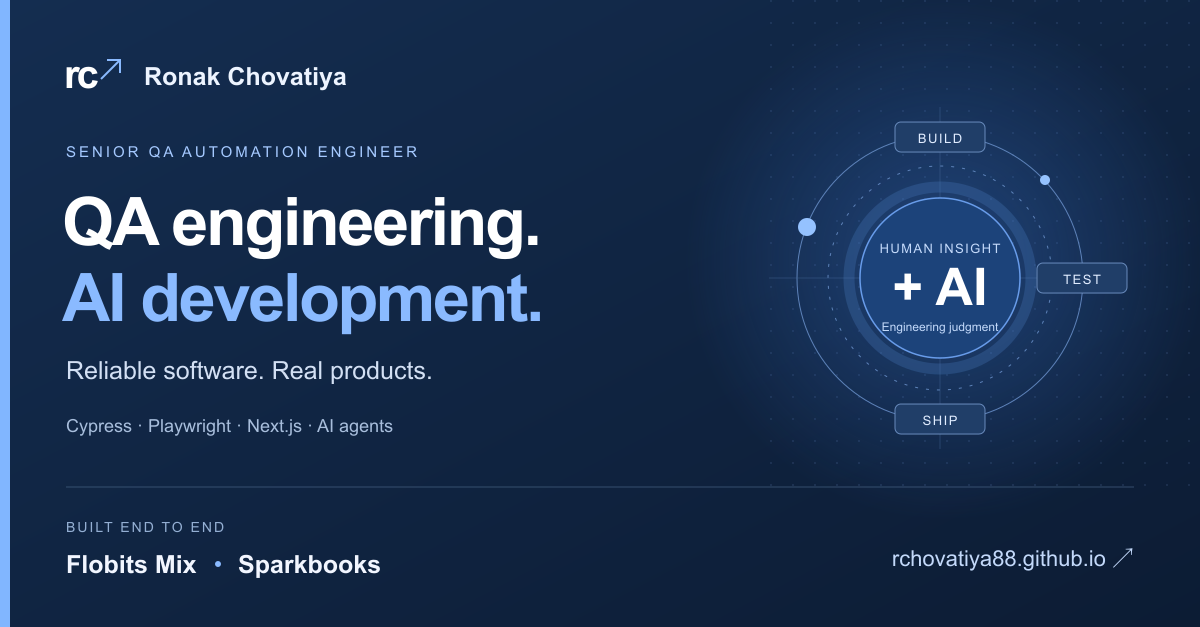
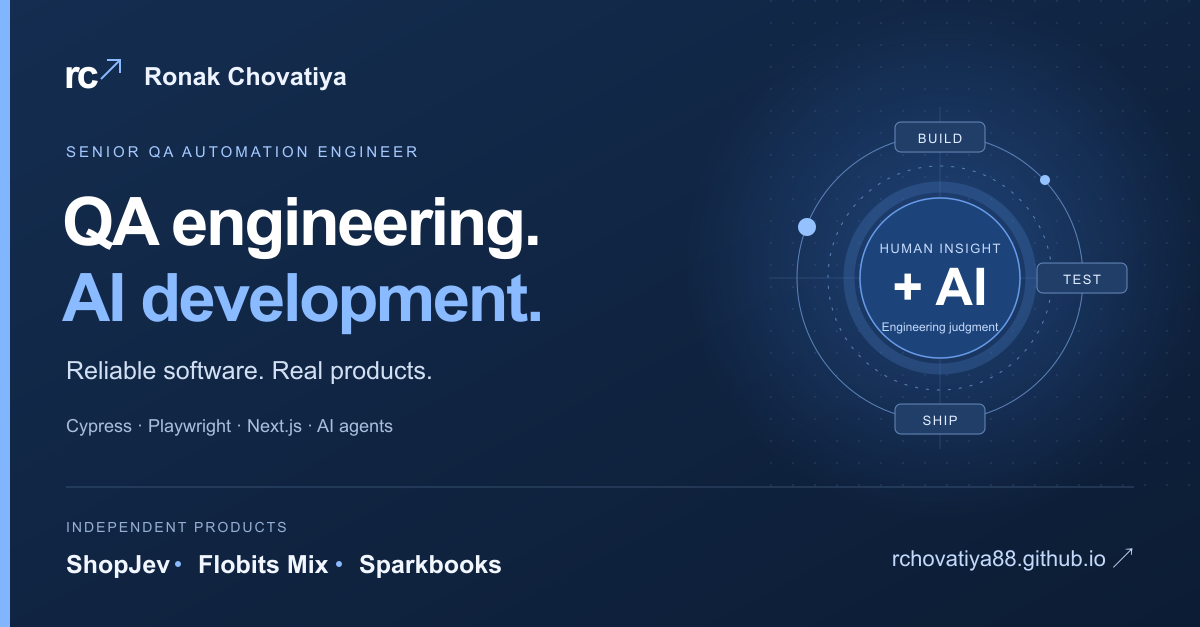
feat: add ShopJev to portfolio

Changed region(s): [[0.0617, 0.8788, 0.4317, 0.9394], [0.0617, 0.8182, 0.2467, 0.8485]]

diff --git a/index.html b/index.html
@@ -2,25 +2,25 @@
 <html lang="en">
 <head>
 <meta charset="utf-8"><meta name="viewport" content="width=device-width, initial-scale=1">
-<meta name="description" content="Ronak Chovatiya — Senior QA Automation Engineer and AI product developer. Cypress, Playwright, full-stack testing, Flobits Mix, and Sparkbooks.">
+<meta name="description" content="Ronak Chovatiya — Senior QA Automation Engineer and AI product developer. Cypress, Playwright, ShopJev, Flobits Mix, and Sparkbooks.">
 <meta name="theme-color" content="#f4f7fc">
 <meta property="og:type" content="website">
 <meta property="og:site_name" content="Ronak Chovatiya Portfolio">
 <meta property="og:locale" content="en_US">
 <meta property="og:title" content="Ronak Chovatiya | QA Automation &amp; AI Development">
-<meta property="og:description" content="Senior QA Automation Engineer building reliable software and AI products. Explore Cypress and Playwright frameworks, Flobits Mix, and Sparkbooks.">
+<meta property="og:description" content="Senior QA Automation Engineer building reliable software and AI products. Explore test automation, ShopJev, Flobits Mix, and Sparkbooks.">
 <meta property="og:url" content="https://rchovatiya88.github.io/">
 <meta property="og:image" content="https://rchovatiya88.github.io/assets/social/ronak-share-v1.png">
 <meta property="og:image:secure_url" content="https://rchovatiya88.github.io/assets/social/ronak-share-v1.png">
 <meta property="og:image:type" content="image/png">
 <meta property="og:image:width" content="1200">
 <meta property="og:image:height" content="627">
-<meta property="og:image:alt" content="Ronak Chovatiya — QA engineering and AI development. Creator of Flobits Mix and Sparkbooks.">
+<meta property="og:image:alt" content="Ronak Chovatiya — QA engineering and AI development. Creator of ShopJev, Flobits Mix, and Sparkbooks.">
 <meta name="twitter:card" content="summary_large_image">
 <meta name="twitter:title" content="Ronak Chovatiya | QA Automation &amp; AI Development">
-<meta name="twitter:description" content="Senior QA Automation Engineer building reliable software and AI products. Explore Flobits Mix, Sparkbooks, and test automation frameworks.">
+<meta name="twitter:description" content="Senior QA Automation Engineer building reliable software and AI products. Explore ShopJev, Flobits Mix, Sparkbooks, and test automation frameworks.">
 <meta name="twitter:image" content="https://rchovatiya88.github.io/assets/social/ronak-share-v1.png">
-<meta name="twitter:image:alt" content="Ronak Chovatiya — QA engineering and AI development. Creator of Flobits Mix and Sparkbooks.">
+<meta name="twitter:image:alt" content="Ronak Chovatiya — QA engineering and AI development. Creator of ShopJev, Flobits Mix, and Sparkbooks.">
 <title>Ronak Chovatiya · QA Engineer & AI Builder</title>
 <link rel="canonical" href="https://rchovatiya88.github.io/">
 <link rel="icon" href="assets/favicon.svg?v=20260926-blue" type="image/svg+xml">
@@ -49,12 +49,16 @@
   <div class="visual-bottom"><span>From first idea<br>to release confidence.</span><span class="mono">AUTOMATE.<br>VALIDATE.<br>ITERATE.</span></div>
  </div>
 </section>
-<div class="proof-strip wrap" aria-label="Career highlights"><div><strong>10+ years</strong><span>in software quality</span></div><div><strong>Frameworks, from zero</strong><span>Cypress · Playwright · Selenium</span></div><div><strong>Products, end to end</strong><span>Flobits Mix · Sparkbooks</span></div><a href="https://github.com/rchovatiya88" target="_blank" rel="noopener noreferrer">Explore my GitHub <span aria-hidden="true">↗</span></a></div>
+<div class="proof-strip wrap" aria-label="Career highlights"><div><strong>10+ years</strong><span>in software quality</span></div><div><strong>Frameworks, from zero</strong><span>Cypress · Playwright · Selenium</span></div><div><strong>Independent products</strong><span>ShopJev · Flobits Mix · Sparkbooks</span></div><a href="https://github.com/rchovatiya88" target="_blank" rel="noopener noreferrer">Explore my GitHub <span aria-hidden="true">↗</span></a></div>
 <section class="section wrap" id="work" aria-labelledby="work-title">
  <div class="section-heading"><div><p class="eyebrow">01 / SELECTED WORK</p><h2 id="work-title">Ideas made real.</h2></div><p>Independent products and public engineering work.<br>Built with a tester’s attention to detail.</p></div>
- <div class="filters" role="group" aria-label="Filter projects"><button class="filter active" data-filter="all" aria-pressed="true">All work <span>3</span></button><button class="filter" data-filter="product" aria-pressed="false">Products <span>2</span></button><button class="filter" data-filter="automation" aria-pressed="false">Test automation <span>1</span></button></div>
+ <div class="filters" role="group" aria-label="Filter projects"><button class="filter active" data-filter="all" aria-pressed="true">All work <span>4</span></button><button class="filter" data-filter="product" aria-pressed="false">Products <span>3</span></button><button class="filter" data-filter="automation" aria-pressed="false">Test automation <span>1</span></button></div>
  <p class="sr-only" id="filter-status" aria-live="polite"></p>
  <div class="project-grid">
+ <article class="project" data-category="product">
+  <a class="project-art shopjev-art" href="https://shopjev.netlify.app/" target="_blank" rel="noopener noreferrer" aria-label="Open ShopJev live site"><div class="art-top"><span class="mono">SHOPJEV / INTENT SEARCH</span><span class="live-label">LIVE PRODUCT ↗</span></div><div class="shopjev-search"><span class="shopjev-search-label">WHAT ARE YOU LOOKING FOR?</span><div class="shopjev-query">A calm, mid-century bedroom<span aria-hidden="true">⌕</span></div><div class="shopjev-chips"><span>Lighting</span><span>Warm wood</span><span>Soft textures</span></div></div><div class="shopjev-products" aria-hidden="true"><div><i></i><span>Thoughtful finds</span><b>↗</b></div><div><i></i><span>Picked for your space</span><b>↗</b></div><div><i></i><span>Explore the collection</span><b>↗</b></div></div><span class="art-caption">Search by what you mean, not just a product name</span></a>
+  <div class="project-copy"><p class="project-kicker">AI / COMMERCE SEARCH / INDEPENDENT PRODUCT</p><h3>ShopJev</h3><p>An AI-assisted shopping search prototype I built around Jev and Shopify’s live product catalog. Search by product, occasion, style, or goal, then explore complementary product searches shaped around the shopper’s intent.</p><div class="tags"><span>Jev intent</span><span>Shopify catalog</span><span>AI product development</span></div><details class="case-study"><summary>Inside the build <span aria-hidden="true">+</span></summary><div><h4>The product</h4><p>Help shoppers move from broad goals like refreshing a room to relevant products across Shopify’s live catalog.</p><h4>My contribution</h4><p>Built the search experience and server-side integration that uses Jev to interpret queries and guide complementary catalog searches. Product listings are fetched live; images load directly from the associated Shopify results.</p><h4>What this demonstrates</h4><p>Applied AI for understanding shopper intent, connected to live commerce data and a usable product discovery experience.</p><a class="text-link" href="https://shopjev.netlify.app/" target="_blank" rel="noopener noreferrer">Explore ShopJev <span aria-hidden="true">↗</span></a></div></details></div>
+ </article>
  <article class="project" data-category="product">
   <a class="project-art flobits-art" href="https://flobits.app/" target="_blank" rel="noopener noreferrer" aria-label="Open Flobits Mix live site"><div class="art-top"><span class="mono">FLOBITS / MIX</span><span class="live-label">LIVE PRODUCT ↗</span></div><div class="flobits-title">Make room<br>for your rhythm<span>.</span></div><div class="sequencer" aria-hidden="true"><div class="seq-controls"><span>FLOBITS SESSION</span><span>● ● ●</span></div><div class="seq-row"><span>KICK</span><i></i><i></i><i></i><i></i><i></i><i></i><i></i><i></i></div><div class="seq-row"><span>SNARE</span><i></i><i></i><i></i><i></i><i></i><i></i><i></i><i></i></div><div class="seq-row"><span>HAT</span><i></i><i></i><i></i><i></i><i></i><i></i><i></i><i></i></div><div class="wave"><i></i><i></i><i></i><i></i><i></i><i></i><i></i><i></i><i></i><i></i><i></i><i></i><i></i><i></i><i></i><i></i><i></i><i></i><i></i><i></i><i></i><i></i><i></i><i></i></div></div><span class="art-caption">A visual sketch of the music workflow</span></a>
   <div class="project-copy"><p class="project-kicker">CREATIVE TOOLS / INDEPENDENT PRODUCT</p><h3>Flobits Mix</h3><p>A browser-based music-production application I built end to end. Sequence beats, mix tracks, record vocals, and convert audio in one creative workspace.</p><div class="tags"><span>Music production</span><span>Browser audio</span><span>Product development</span></div><details class="case-study"><summary>Inside the build <span aria-hidden="true">+</span></summary><div><h4>The product</h4><p>Bring music creation, mixing, and recording into a single browser experience with a 16-step sequencer, per-track controls, and effects.</p><h4>My contribution</h4><p>Built the application end to end, connecting the creative interface with its audio workflows and bringing the product to a live website.</p><h4>What this demonstrates</h4><p>Hands-on product engineering beyond test automation: interactive UI, complex application state, and an experience that responds to a user’s creative choices.</p><a class="text-link" href="https://flobits.app/" target="_blank" rel="noopener noreferrer">Try Flobits Mix <span aria-hidden="true">↗</span></a></div></details></div>

diff --git a/styles.css b/styles.css
@@ -8,3 +8,18 @@
 @media(max-width:360px){.wrap{width:calc(100% - 30px)}.hero h1{font-size:8vw;letter-spacing:-1.4px}.hero-actions{gap:15px}.hero-actions .button{padding:12px;gap:11px}.wordmark-sub{font-size:5px}.header nav{gap:10px}.filter{padding:8px 10px;gap:7px}.contact-section{padding:27px 20px}.contact-section h2{font-size:25px}.agent-code{font-size:9px}}
 @media(prefers-reduced-motion:reduce){html{scroll-behavior:auto}*,*:before,*:after{transition:none!important;animation:none!important}}
 @media print{.header nav,.nav-contact,.filters,.hero-actions,.engineering-visual,.project-art,.automation-art,.agent-card,.contact-circle,.contact-links,.footer{display:none}.wrap{width:100%;max-width:none}.hero,.section,.contact-section{padding:20px 0}.hero,.about-section,.project-wide,.current-role{display:block}.project-grid{display:block}.project{break-inside:avoid;margin-bottom:15px}.project-copy{padding:15px}.hero h1{font-size:35px}.section-heading h2,h2{font-size:26px}.contact-section,.role-sidebar,.experience-section{background:white;color:black}.contact-section{margin:0}.contact-section h2{font-size:28px}.role-work{padding:15px}.role-sidebar{padding:15px;border:0}.proof-strip{padding:15px 0}body{background:white;color:black}.project[hidden]{display:block}}
+
+/* ShopJev project artwork */
+.shopjev-art{color:#e7efff;background:#172943;background-image:radial-gradient(#7ca4d422 1px,transparent 1px),linear-gradient(145deg,#203e68,#142238 70%);background-size:15px 15px,auto}
+.shopjev-search{position:relative;margin:10px auto 0;padding:13px 15px;width:76%;max-width:380px;background:#f5f7fb;border:1px solid #cad6e5;border-radius:8px;color:#20324d;box-shadow:0 12px 30px #07132666}
+.shopjev-search-label{font:7px var(--mono);letter-spacing:1px;color:#687b96}
+.shopjev-query{display:flex;align-items:center;justify-content:space-between;margin-top:7px;padding:9px 11px;border:1px solid #cbd6e4;border-radius:4px;background:#fff;font-size:11px;color:#34445e}
+.shopjev-query>span{color:#3479cc;font-size:19px;line-height:1}
+.shopjev-chips{display:flex;gap:6px;margin-top:9px;flex-wrap:wrap}
+.shopjev-chips>span{padding:4px 7px;border:1px solid #d1dce9;border-radius:99px;color:#64748b;font-size:7px}
+.shopjev-products{position:absolute;right:9%;bottom:39px;display:grid;gap:7px;width:57%;max-width:270px;transform:rotate(-3deg)}
+.shopjev-products>div{display:flex;align-items:center;gap:9px;padding:7px 10px;border:1px solid #63758f;border-radius:6px;background:#243953;color:#e8effa;font-size:8px;box-shadow:0 6px 16px #0b172755}
+.shopjev-products i{width:25px;height:25px;border-radius:4px;background:linear-gradient(145deg,#e7d6bc,#93a4b7)}
+.shopjev-products>div:nth-child(2) i{background:linear-gradient(145deg,#b9c6d8,#6b809d)}
+.shopjev-products>div:nth-child(3) i{background:linear-gradient(145deg,#d6c0a5,#967d69)}
+.shopjev-products b{margin-left:auto;color:#b7d6ff;font-size:12px;font-weight:400}
